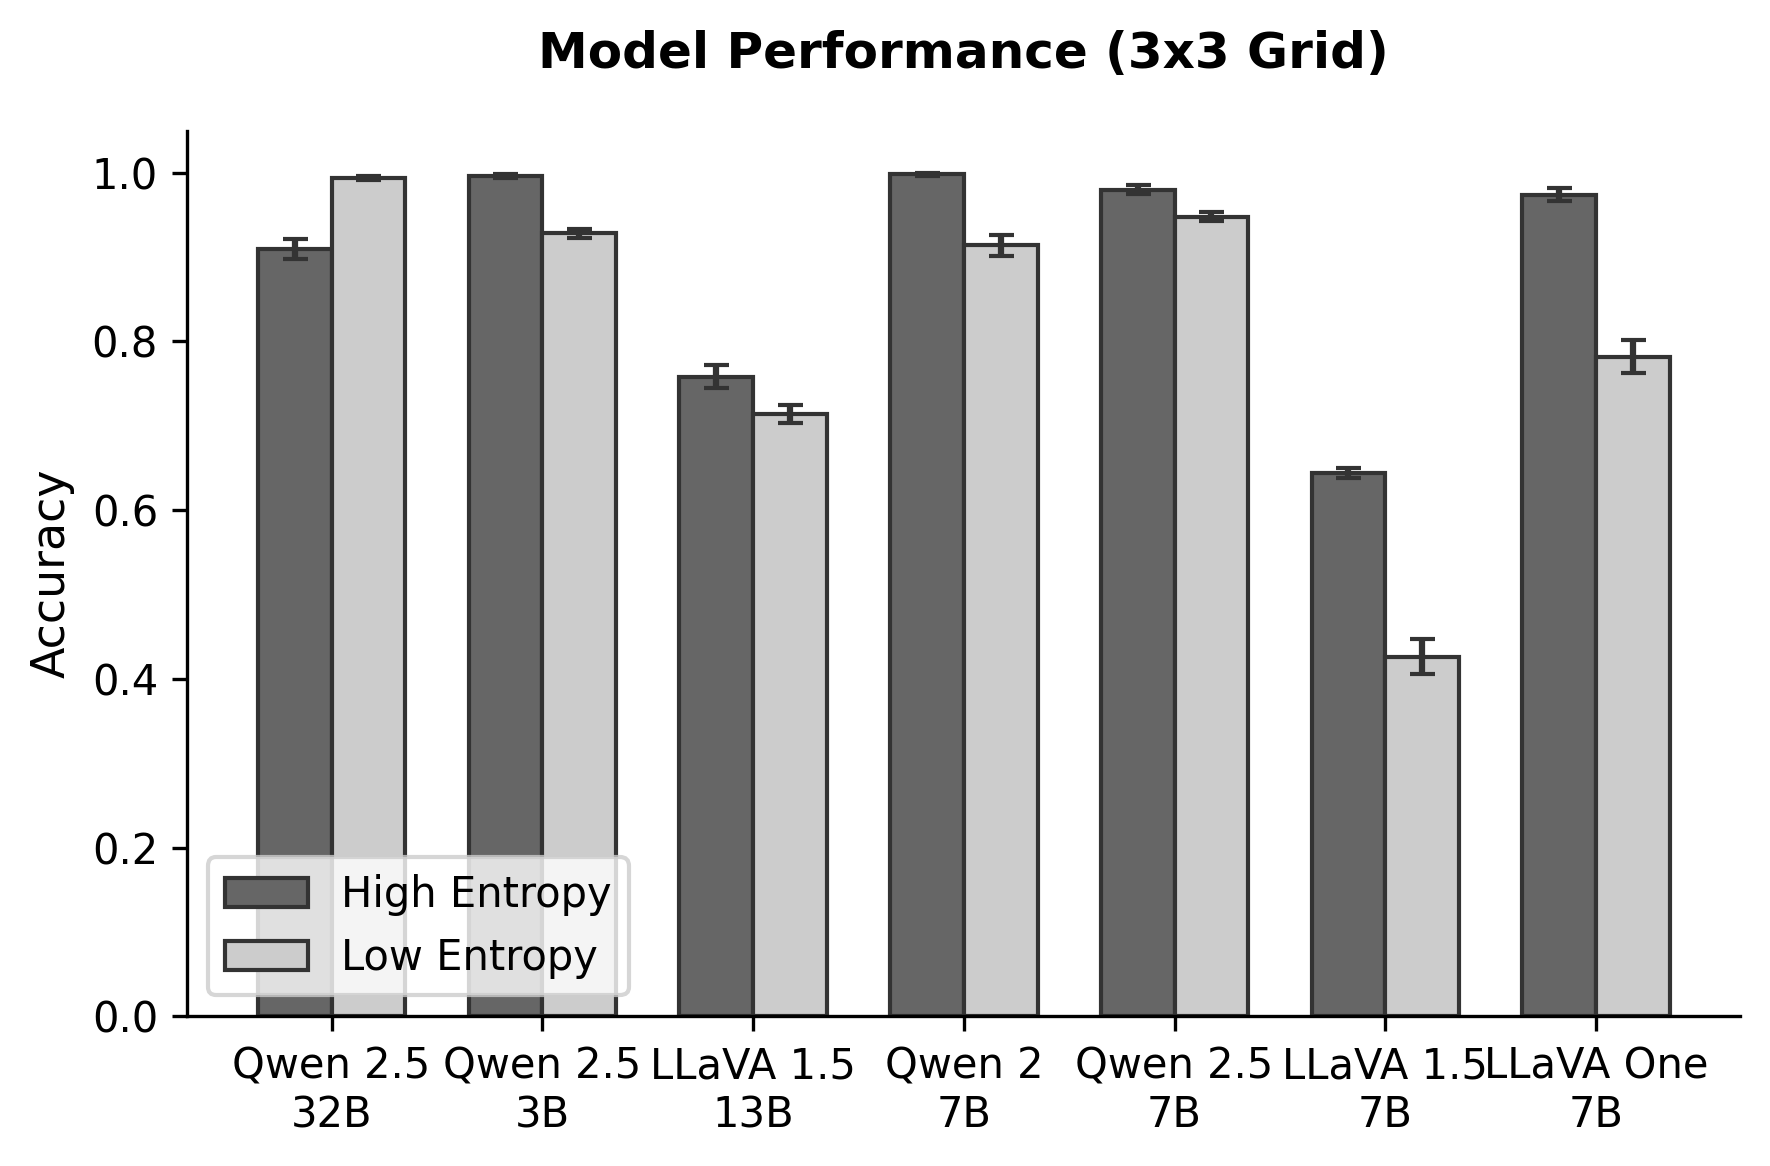
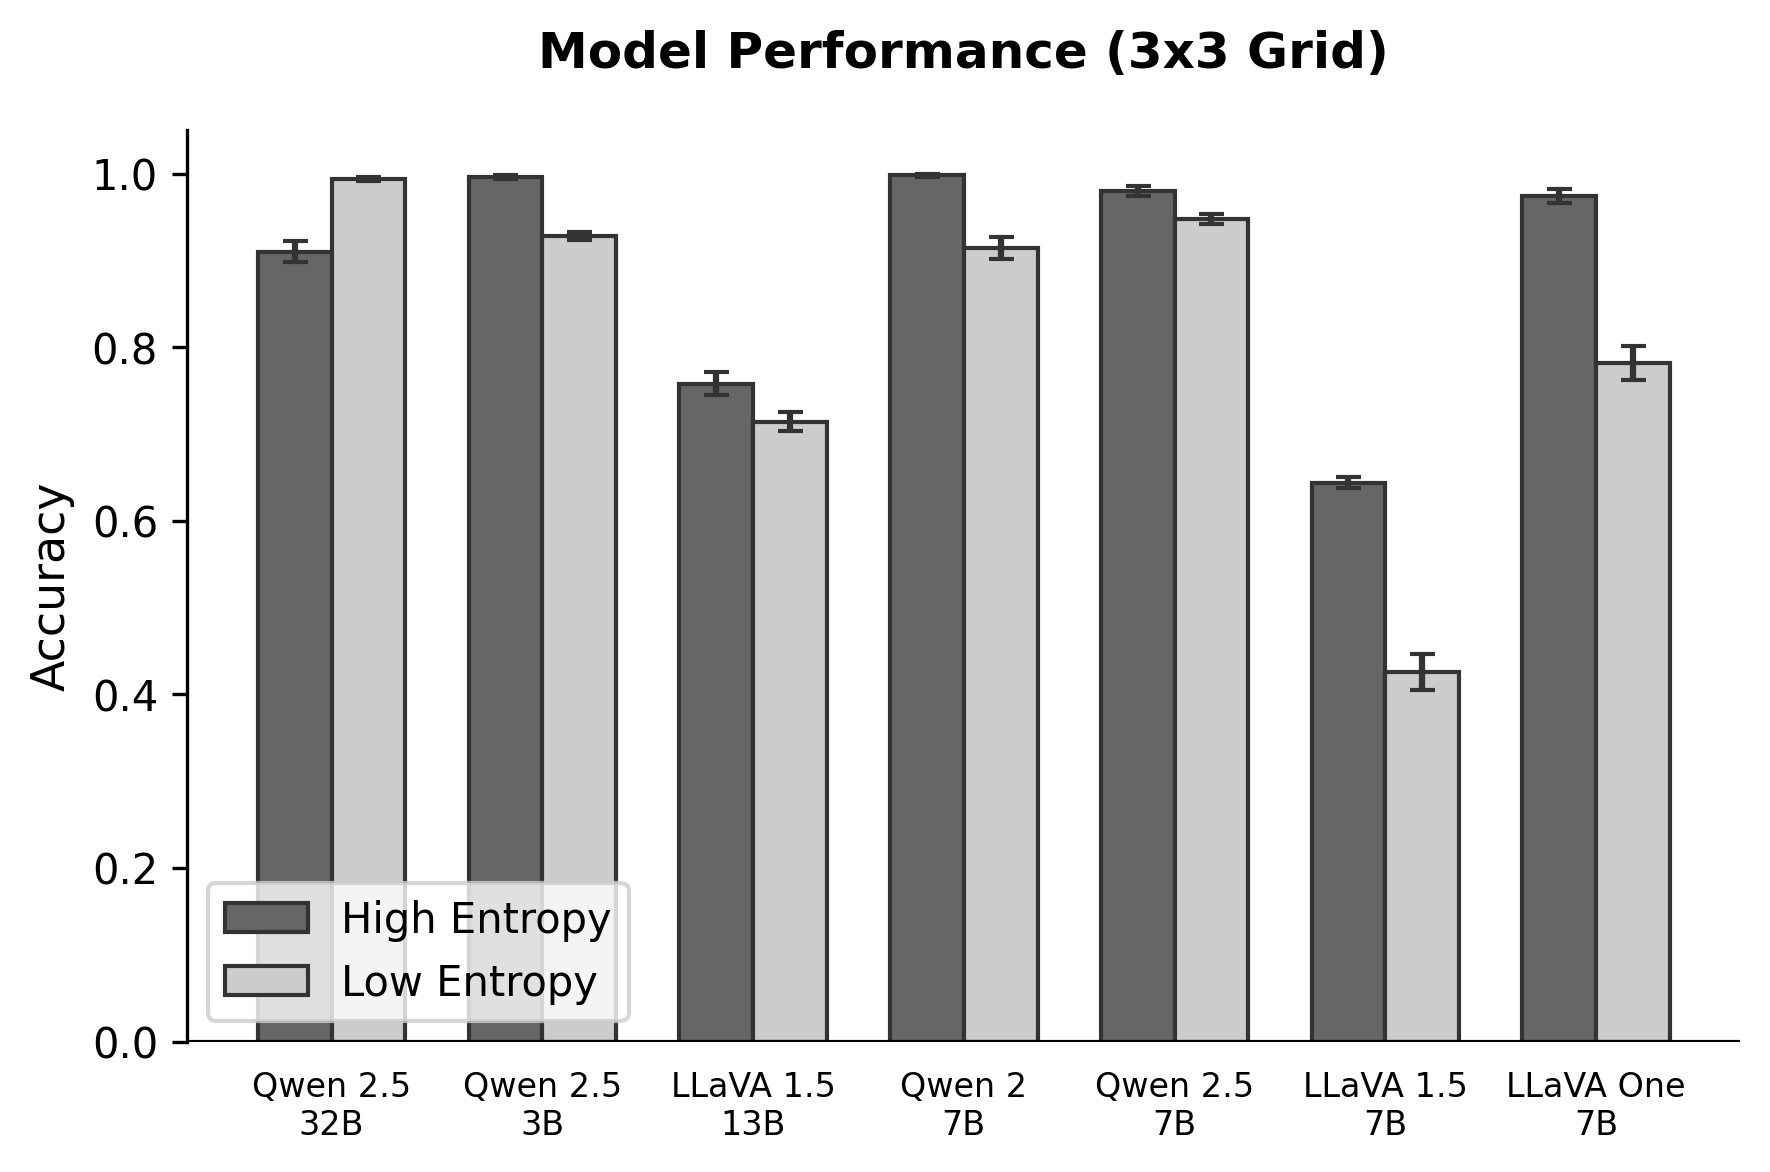
fig 7 format

diff --git a/src/plots/rsa_6.py b/src/plots/rsa_6.py
@@ -239,7 +239,10 @@ def plot_bar_chart(config, save_path):
     ax.set_ylabel(config['ylabel'], fontsize=11)
     ax.set_title(config['title'], fontweight='bold', fontsize=12, pad=15)
     ax.set_xticks(x)
-    ax.set_xticklabels(models, fontsize=10)
+    ax.set_xticklabels(models, fontsize=8)
+    ax.spines['bottom'].set_visible(False)
+    ax.axhline(0, color='black', linewidth=1)
+    ax.tick_params(axis='x', bottom=False)
     ax.legend(loc='best')
     
     ax.spines['top'].set_visible(False)
